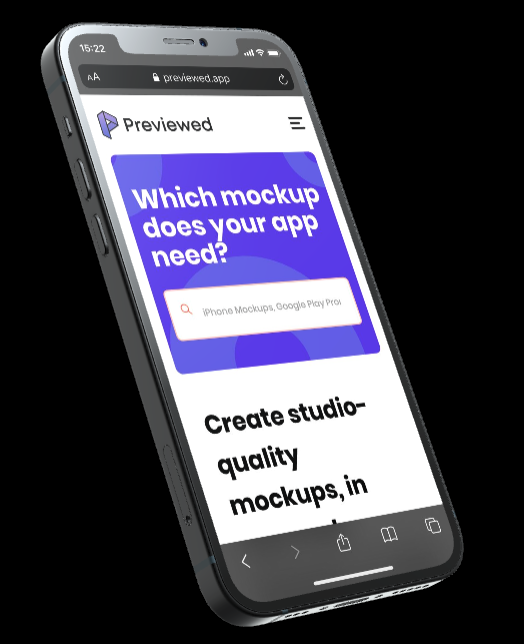
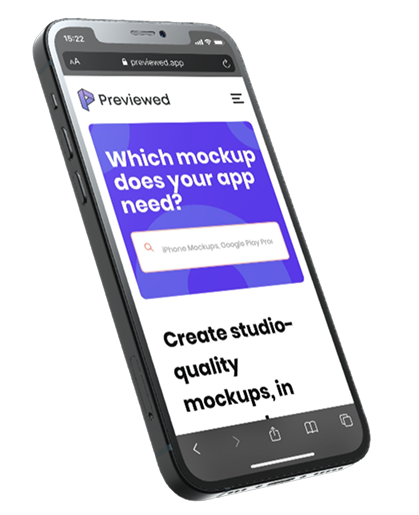
fix: fixing image background

diff --git a/app/page.tsx b/app/page.tsx
@@ -223,7 +223,7 @@ function ProjectsSection() {
           </div>
           {/* Overlapping tablet mockup */}
           <div className="col-start-1 row-start-1 flex items-center justify-center ml-[403px] mt-[163px] h-[547px] w-[773px]">
-            <div className="-scale-y-100 flex-none rotate-180">
+            <div className="flex-none ">
               <div className="relative h-[547px] w-[773px]">
                 <Image
                   width={773}
